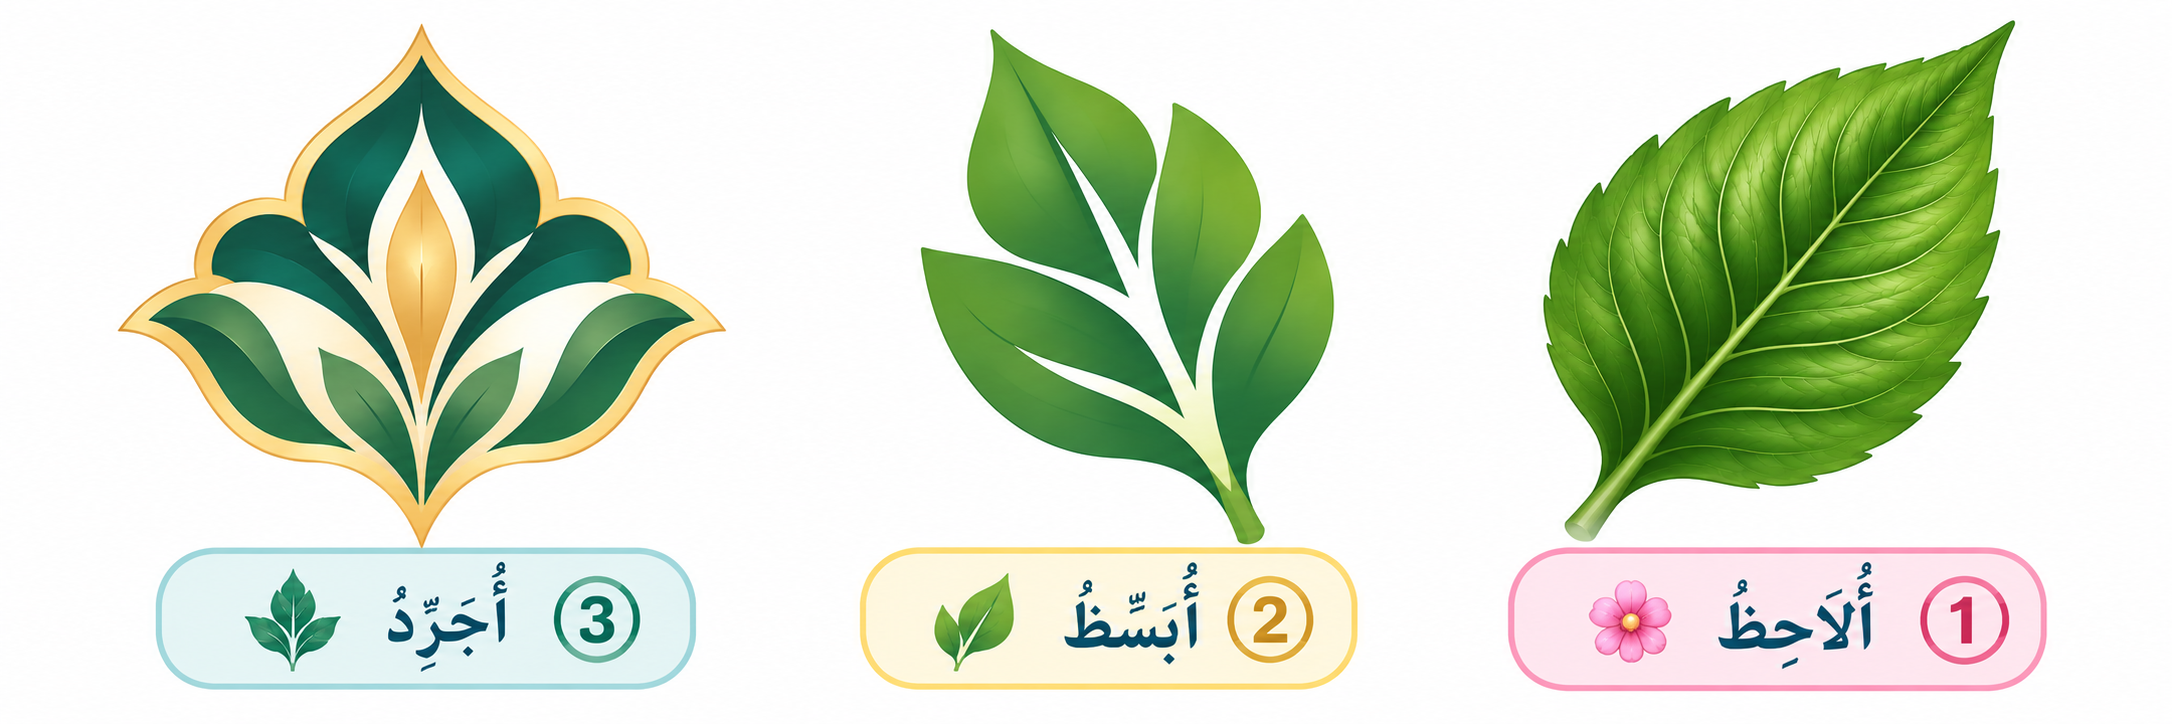
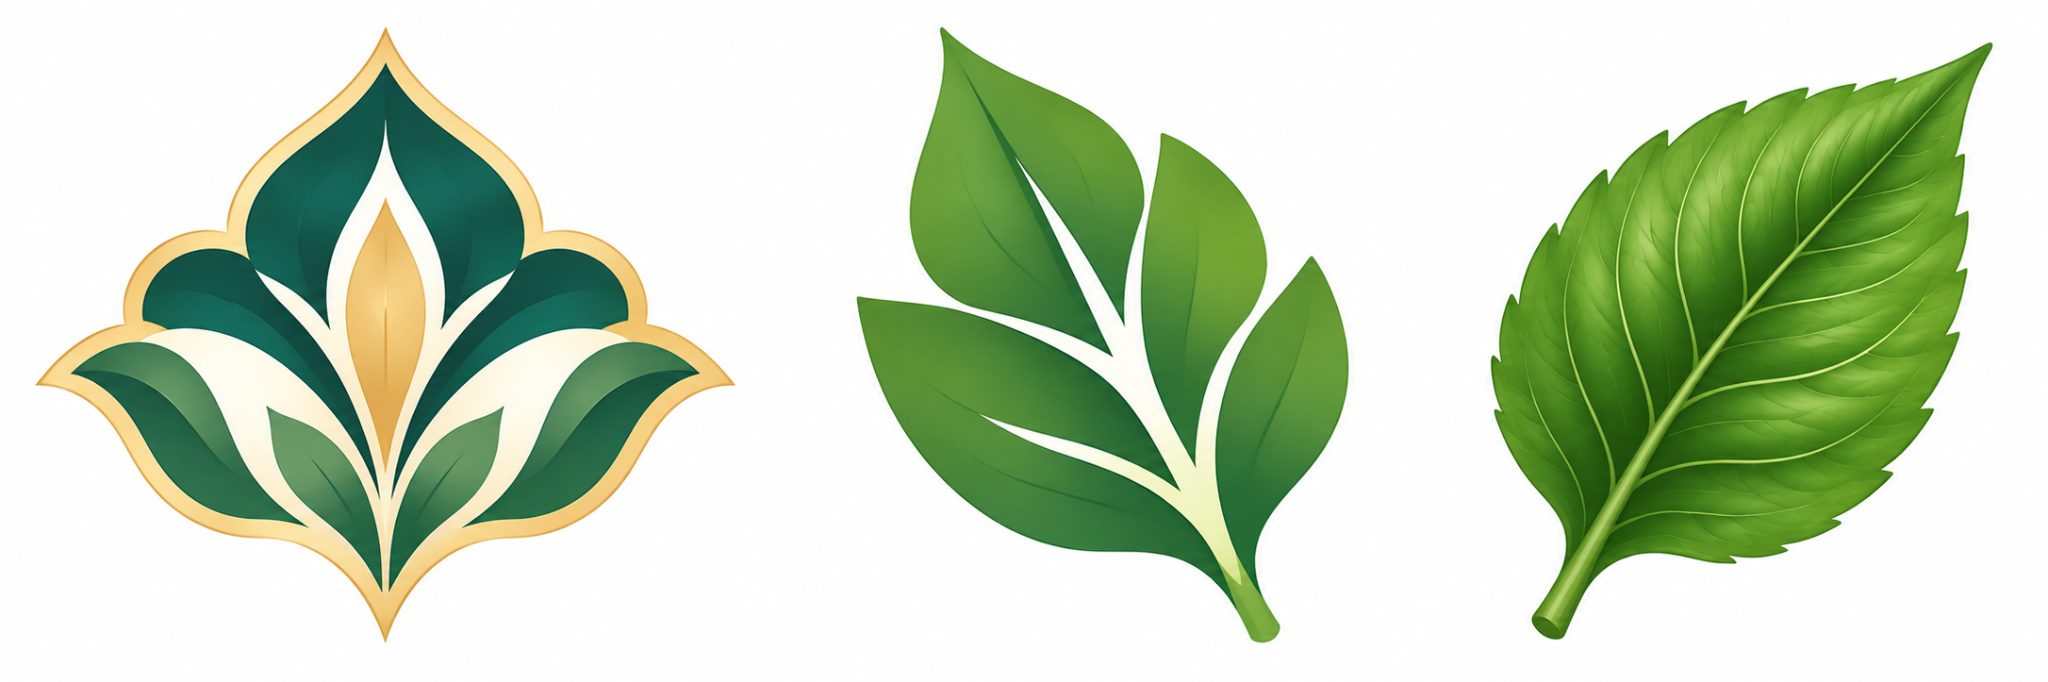
Add files via upload

diff --git a/abstraction.html b/abstraction.html
@@ -1,7 +1,1 @@
-<!doctype html><html lang="ar" dir="rtl"><head><meta charset="utf-8"><meta name="viewport" content="width=device-width,initial-scale=1"><title>أَتَعَرَّفُ عَلَى التَّجْرِيدِ</title><style>:root{--ink:#073f3b;--green:#08765f;--gold:#c99737;--cream:#fffaf0;--bad:#b5544d}*{box-sizing:border-box}body{margin:0;font-family:Tahoma,Arial,sans-serif;background:#f8f3e7;color:var(--ink)}.hero{height:210px;position:relative;overflow:hidden;border-bottom:3px solid var(--gold)}.hero img{width:100%;height:100%;object-fit:cover}.hero h1{position:absolute;inset:0;display:grid;place-items:center;margin:0;font-size:clamp(28px,4vw,58px);color:#073f3b;text-shadow:0 2px 2px #fff,0 0 10px #fff,0 0 18px #fff;background:transparent;font-weight:800}.bar{position:sticky;top:0;z-index:10;display:flex;gap:10px;align-items:center;padding:10px 16px;background:#fffdf8ee;border-bottom:1px solid #dfc98e}.bar b{margin-inline-start:auto}.fab,.btn{border:2px solid var(--gold);border-radius:999px;background:#fff;color:var(--ink);padding:10px 16px;font-weight:700;text-decoration:none;cursor:pointer}.btn{border:0;background:var(--green);color:#fff;border-radius:15px}.wrap{width:min(1120px,94%);margin:22px auto}.card{background:#fffdf8;border:1px solid #dfc98e;border-radius:24px;padding:24px;margin:18px 0;text-align:center}.lead{font-size:1.15rem;line-height:2}.visual{max-width:100%;max-height:430px;object-fit:contain;border-radius:18px}.choices{display:grid;gap:10px;margin-top:18px}.choice{padding:13px;border:2px solid #d8c69a;border-radius:16px;background:white;font:inherit;color:#1682e7;cursor:pointer}.good{border-color:#16835b!important;background:#e9f8ef!important}.bad{border-color:#b5544d!important;background:#fff0ee!important}.feedback{min-height:36px;font-weight:700;margin:12px}.hidden{display:none!important}.stagebar{display:flex;justify-content:center;gap:8px;margin:12px}.dot{padding:7px 12px;border-radius:999px;background:#eee}.dot.on{background:#dff3e8;font-weight:700}.pairgrid{display:grid;grid-template-columns:repeat(3,1fr);gap:16px}.pick{border:3px solid transparent;border-radius:18px;padding:6px;background:#fff;cursor:pointer}.pick img{width:100%;border-radius:14px}.two{display:grid;grid-template-columns:1fr 1fr;gap:16px}.svgbox{display:flex;justify-content:center}.palette{display:flex;gap:12px;justify-content:center;margin:14px}.sw{width:40px;height:40px;border-radius:50%;border:3px solid white;outline:1px solid #aaa}.teacher{position:fixed;left:18px;bottom:18px;z-index:30}.panel{position:fixed;left:18px;bottom:70px;background:white;border:2px solid var(--gold);border-radius:16px;padding:10px;z-index:31;display:none}.panel.on{display:block}canvas{position:fixed;inset:0;z-index:25;pointer-events:none}canvas.on{pointer-events:auto}@media(max-width:700px){.hero{height:145px}.pairgrid{grid-template-columns:1fr}.two{grid-template-columns:1fr}}</style></head><body><header class="hero"><img src="section-header.png" alt=""><h1>أَتَعَرَّفُ عَلَى التَّجْرِيدِ</h1></header><nav class="bar"><a class="fab" href="index.html">🏠 الرئيسية</a><span></span><b>أَتَعَرَّفُ عَلَى التَّجْرِيدِ</b></nav><main class="wrap"><section class="card"><h2>مَرَاحِلُ التَّجْرِيدِ</h2><img class="visual" src="abstraction-stages.png"><div class="card"><h2>مَا التَّجْرِيدُ؟ 🌿</h2><p class="lead"><b>التَّجْرِيدُ هُوَ الِابْتِعَادُ عَنِ النَّقْلِ الْحَرْفِيِّ وَرَفْضُ الْمُحَاكَاةِ مِنْ عَنَاصِرِ الطَّبِيعَةِ.</b></p></div><h3>أَيُّ شَكْلٍ يُمَثِّلُ تَجْرِيدًا لِعُنْصُرٍ نَبَاتِيٍّ؟</h3>
-<div class="choices" id="absQ">
-<button class="choice" onclick="answerAbs(this,false)">🍃 الْوَرَقَةُ الطَّبِيعِيَّةُ</button>
-<button class="choice" onclick="answerAbs(this,true)">🌿 الْوَحْدَةُ الزُّخْرُفِيَّةُ الْمُجَرَّدَةُ</button>
-<button class="choice" onclick="answerAbs(this,false)">⭐ النَّجْمَةُ</button>
-</div><div id="absFb" class="feedback"></div></section><div class="card"><a id="absNext" class="btn hidden" href="compare.html">التالي ←</a></div>
-<script>function answerAbs(b,ok){document.querySelectorAll('#absQ .choice').forEach(x=>x.classList.remove('good','bad'));if(ok){b.classList.add('good');absFb.textContent='أَحْسَنْتِ! ✨';absNext.classList.remove('hidden')}else{b.classList.add('bad');absFb.textContent='حَاوِلِي مَرَّةً أُخْرَى'}}</script></main><canvas id="draw"></canvas><button class="fab teacher" onclick="toggleTeacher()">✏ أدوات المعلمة</button><div id="panel" class="panel"><b>✏ أدوات المعلمة</b><br><button onclick="tool='pen'">قلم</button><button onclick="tool='marker'">محدد</button><button onclick="tool='eraser'">ممحاة</button><span style="display:inline-flex;gap:5px;margin:6px"><button aria-label="أخضر" onclick="ink='#073f3b'" style="width:25px;height:25px;border-radius:50%;background:#073f3b"></button><button aria-label="أزرق" onclick="ink='#1682e7'" style="width:25px;height:25px;border-radius:50%;background:#1682e7"></button><button aria-label="أحمر" onclick="ink='#c84f4f'" style="width:25px;height:25px;border-radius:50%;background:#c84f4f"></button><button aria-label="ذهبي" onclick="ink='#c99737'" style="width:25px;height:25px;border-radius:50%;background:#c99737"></button></span><button onclick="undo()">↩</button><button onclick="clearC()">مسح</button></div><script>const c=document.getElementById('draw'),x=c.getContext('2d');let drawing=false,tool='pen',ink='#073f3b',hist=[];function rs(){c.width=innerWidth;c.height=innerHeight}rs();addEventListener('resize',rs);function toggleTeacher(){panel.classList.toggle('on');c.classList.toggle('on')}c.onpointerdown=e=>{hist.push(c.toDataURL());drawing=true;x.beginPath();x.moveTo(e.clientX,e.clientY)};c.onpointermove=e=>{if(!drawing)return;x.lineCap='round';x.globalAlpha=tool==='marker'?.25:1;x.globalCompositeOperation=tool==='eraser'?'destination-out':'source-over';x.strokeStyle=ink;x.lineWidth=tool==='marker'?22:tool==='eraser'?30:4;x.lineTo(e.clientX,e.clientY);x.stroke()};c.onpointerup=()=>{drawing=false;x.globalAlpha=1;x.globalCompositeOperation='source-over'};function clearC(){x.clearRect(0,0,c.width,c.height)}function undo(){let u=hist.pop();clearC();if(u){let i=new Image;i.onload=()=>x.drawImage(i,0,0);i.src=u}}</script><script src="motivation.js"></script></body></html>
+<!doctype html><html lang="ar" dir="rtl"><head><meta charset="utf-8"><meta name="viewport" content="width=device-width,initial-scale=1"><title>أَتَعَرَّفُ عَلَى التَّجْرِيدِ</title><style>:root{--ink:#073f3b;--green:#08765f;--gold:#c99737;--cream:#fffaf0;--bad:#b5544d}*{box-sizing:border-box}body{margin:0;font-family:Tahoma,Arial,sans-serif;background:#f8f3e7;color:var(--ink)}.hero{height:210px;position:relative;overflow:hidden;border-bottom:3px solid var(--gold)}.hero img{width:100%;height:100%;object-fit:cover}.hero h1{position:absolute;inset:0;display:grid;place-items:center;margin:0;font-size:clamp(28px,4vw,58px);color:#073f3b;text-shadow:0 2px 2px #fff,0 0 10px #fff,0 0 18px #fff;background:transparent;font-weight:800}.bar{position:sticky;top:0;z-index:10;display:flex;gap:10px;align-items:center;padding:10px 16px;background:#fffdf8ee;border-bottom:1px solid #dfc98e}.bar b{margin-inline-start:auto}.fab,.btn{border:2px solid var(--gold);border-radius:999px;background:#fff;color:var(--ink);padding:10px 16px;font-weight:700;text-decoration:none;cursor:pointer}.btn{border:0;background:var(--green);color:#fff;border-radius:15px}.wrap{width:min(1120px,94%);margin:22px auto}.card{background:#fffdf8;border:1px solid #dfc98e;border-radius:24px;padding:24px;margin:18px 0;text-align:center}.lead{font-size:1.15rem;line-height:2}.visual{max-width:100%;max-height:430px;object-fit:contain;border-radius:18px}.choices{display:grid;gap:10px;margin-top:18px}.choice{padding:13px;border:2px solid #d8c69a;border-radius:16px;background:white;font:inherit;color:#1682e7;cursor:pointer}.good{border-color:#16835b!important;background:#e9f8ef!important}.bad{border-color:#b5544d!important;background:#fff0ee!important}.feedback{min-height:36px;font-weight:700;margin:12px}.hidden{display:none!important}.stagebar{display:flex;justify-content:center;gap:8px;margin:12px}.dot{padding:7px 12px;border-radius:999px;background:#eee}.dot.on{background:#dff3e8;font-weight:700}.pairgrid{display:grid;grid-template-columns:repeat(3,1fr);gap:16px}.pick{border:3px solid transparent;border-radius:18px;padding:6px;background:#fff;cursor:pointer}.pick img{width:100%;border-radius:14px}.two{display:grid;grid-template-columns:1fr 1fr;gap:16px}.svgbox{display:flex;justify-content:center}.palette{display:flex;gap:12px;justify-content:center;margin:14px}.sw{width:40px;height:40px;border-radius:50%;border:3px solid white;outline:1px solid #aaa}.teacher{position:fixed;left:18px;bottom:18px;z-index:30}.panel{position:fixed;left:18px;bottom:70px;background:white;border:2px solid var(--gold);border-radius:16px;padding:10px;z-index:31;display:none}.panel.on{display:block}canvas{position:fixed;inset:0;z-index:25;pointer-events:none}canvas.on{pointer-events:auto}@media(max-width:700px){.hero{height:145px}.pairgrid{grid-template-columns:1fr}.two{grid-template-columns:1fr}}.choice-image-wrap{position:relative;display:inline-block;max-width:100%;margin-top:12px}.choice-image{display:block;max-height:none;width:min(100%,1100px)}.hotspot{position:absolute;top:8%;bottom:8%;cursor:pointer;border-radius:28px;transition:.18s}.hotspot.star{left:1.5%;width:31.5%}.hotspot.ornament{left:34.2%;width:31.5%}.hotspot.leaf{right:1.5%;width:31.5%}.hotspot.goodHot{outline:6px solid #16835b;outline-offset:-7px}.hotspot.badHot{outline:6px solid #b5544d;outline-offset:-7px}</style></head><body><header class="hero"><img src="section-header.png" alt=""><h1>أَتَعَرَّفُ عَلَى التَّجْرِيدِ</h1></header><nav class="bar"><a class="fab" href="index.html">🏠 الرئيسية</a><span></span><b>أَتَعَرَّفُ عَلَى التَّجْرِيدِ</b></nav><main class="wrap"><section class="card"><h2>مَرَاحِلُ التَّجْرِيدِ</h2><img class="visual" src="abstraction-stages.png" alt="مراحل التجريد"><p class="lead"><b>① أُلَاحِظُ ← ② أُبَسِّطُ ← ③ أُجَرِّدُ</b></p><div class="card"><h2>مَا التَّجْرِيدُ؟ 🌿</h2><p class="lead"><b>التَّجْرِيدُ هُوَ الِابْتِعَادُ عَنِ النَّقْلِ الْحَرْفِيِّ وَرَفْضُ الْمُحَاكَاةِ مِنْ عَنَاصِرِ الطَّبِيعَةِ.</b></p></div><h3>أَيُّ شَكْلٍ يُمَثِّلُ تَجْرِيدًا لِعُنْصُرٍ نَبَاتِيٍّ؟</h3><div class="choice-image-wrap"><img class="visual choice-image" src="abstraction-options.png" alt="اختيارات سؤال التجريد"><div class="hotspot star" role="button" tabindex="0" aria-label="النجمة" onclick="answerAbs(this,false)"></div><div class="hotspot ornament" role="button" tabindex="0" aria-label="الوحدة الزخرفية المجردة" onclick="answerAbs(this,true)"></div><div class="hotspot leaf" role="button" tabindex="0" aria-label="الورقة الطبيعية" onclick="answerAbs(this,false)"></div></div><div id="absFb" class="feedback"></div></section><div class="card"><a id="absNext" class="btn hidden" href="compare.html">التالي ←</a></div><audio id="correctSound" src="correct.mp3" preload="auto"></audio><audio id="wrongSound" src="wrong.mp3" preload="auto"></audio><script>function answerAbs(b,ok){document.querySelectorAll('.hotspot').forEach(x=>x.classList.remove('goodHot','badHot'));const fb=document.getElementById('absFb');if(ok){b.classList.add('goodHot');fb.textContent='أَحْسَنْتِ! ✨';document.getElementById('absNext').classList.remove('hidden');document.getElementById('correctSound').play().catch(()=>{})}else{b.classList.add('badHot');fb.textContent='حَاوِلِي مَرَّةً أُخْرَى 🌱';document.getElementById('wrongSound').play().catch(()=>{});setTimeout(()=>b.classList.remove('badHot'),650)}}</script></main><canvas id="draw"></canvas><button class="fab teacher" onclick="toggleTeacher()">✏ أدوات المعلمة</button><div id="panel" class="panel"><b>✏ أدوات المعلمة</b><br><button onclick="tool='pen'">قلم</button><button onclick="tool='marker'">محدد</button><button onclick="tool='eraser'">ممحاة</button><span style="display:inline-flex;gap:5px;margin:6px"><button aria-label="أخضر" onclick="ink='#073f3b'" style="width:25px;height:25px;border-radius:50%;background:#073f3b"></button><button aria-label="أزرق" onclick="ink='#1682e7'" style="width:25px;height:25px;border-radius:50%;background:#1682e7"></button><button aria-label="أحمر" onclick="ink='#c84f4f'" style="width:25px;height:25px;border-radius:50%;background:#c84f4f"></button><button aria-label="ذهبي" onclick="ink='#c99737'" style="width:25px;height:25px;border-radius:50%;background:#c99737"></button></span><button onclick="undo()">↩</button><button onclick="clearC()">مسح</button></div><script>const c=document.getElementById('draw'),x=c.getContext('2d');let drawing=false,tool='pen',ink='#073f3b',hist=[];function rs(){c.width=innerWidth;c.height=innerHeight}rs();addEventListener('resize',rs);function toggleTeacher(){panel.classList.toggle('on');c.classList.toggle('on')}c.onpointerdown=e=>{hist.push(c.toDataURL());drawing=true;x.beginPath();x.moveTo(e.clientX,e.clientY)};c.onpointermove=e=>{if(!drawing)return;x.lineCap='round';x.globalAlpha=tool==='marker'?.25:1;x.globalCompositeOperation=tool==='eraser'?'destination-out':'source-over';x.strokeStyle=ink;x.lineWidth=tool==='marker'?22:tool==='eraser'?30:4;x.lineTo(e.clientX,e.clientY);x.stroke()};c.onpointerup=()=>{drawing=false;x.globalAlpha=1;x.globalCompositeOperation='source-over'};function clearC(){x.clearRect(0,0,c.width,c.height)}function undo(){let u=hist.pop();clearC();if(u){let i=new Image;i.onload=()=>x.drawImage(i,0,0);i.src=u}}</script><script src="motivation.js"></script></body></html>
